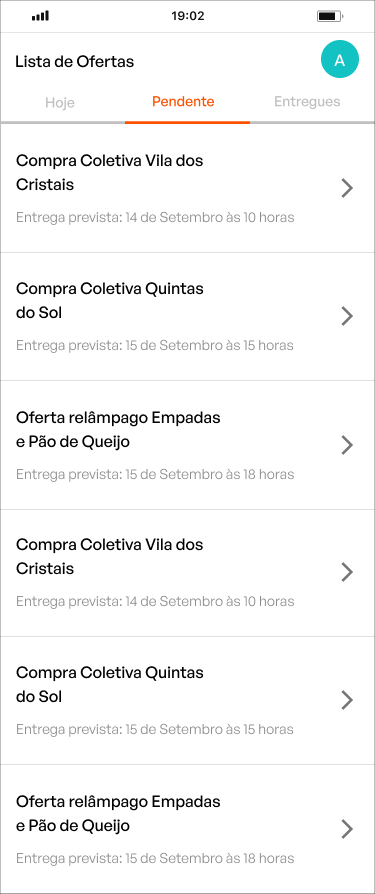
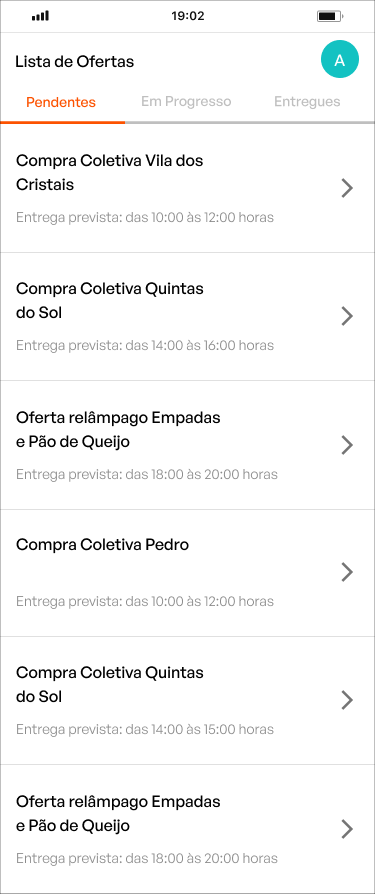
update images and delivery subtitle

diff --git a/Codigo/MobileApp/lib/app/modules/delivery_list/widgets/delivery_list.dart b/Codigo/MobileApp/lib/app/modules/delivery_list/widgets/delivery_list.dart
@@ -1,3 +1,4 @@
+import 'package:delivery_manager/app/data/enums/delivery_status.dart';
 import 'package:delivery_manager/app/data/models/delivery.dart';
 import 'package:flutter/material.dart';
 import 'package:get/get.dart';
@@ -23,6 +24,7 @@ class DeliveryList extends StatelessWidget {
         separatorBuilder: (context, index) => const Divider(height: 1),
         itemBuilder: (context, index) {
           final delivery = deliveries[index];
+
           return Column(
             children: [
               ListTile(
@@ -31,7 +33,7 @@ class DeliveryList extends StatelessWidget {
                   style: const TextStyle(fontSize: 18),
                 ),
                 subtitle: Text(
-                  'delivery_subtitle'
+                  'delivery_${delivery.status!.value}_subtitle'
                       .tr
                       .replaceAll(':day', delivery.deliveryDate!.day.toString())
                       .replaceAll(

diff --git a/Codigo/MobileApp/lib/app/translations/pt_BR/pt_br_translations.dart b/Codigo/MobileApp/lib/app/translations/pt_BR/pt_br_translations.dart
@@ -29,7 +29,9 @@ final _listTitles = {
 
 final _listContent = {
   'delivery_list_no_deliveries': 'Nenhuma entrega encontrada',
-  'delivery_subtitle': 'Entrega prevista: dia :day às :hour horas',
+  'delivery_created_subtitle': 'Entrega prevista: dia :day às :hour horas',
+  'delivery_in_progress_subtitle': 'Entrega prevista: dia :day às :hour horas',
+  'delivery_finished_subtitle': 'Entregue: dia :day às :hour horas',
 };
 
 final _inputLabels = {

diff --git a/Codigo/MobileApp/test/app/modules/delivery_list/widgets/delivery_list_test.dart b/Codigo/MobileApp/test/app/modules/delivery_list/widgets/delivery_list_test.dart
@@ -50,7 +50,7 @@ void main() {
       );
       expect(
         find.text(
-          'delivery_subtitle'
+          'delivery_created_subtitle'
               .tr
               .replaceAll(':day', deliveries[0].deliveryDate!.day.toString())
               .replaceAll(':hour', deliveries[0].deliveryDate!.hour.toString()),
